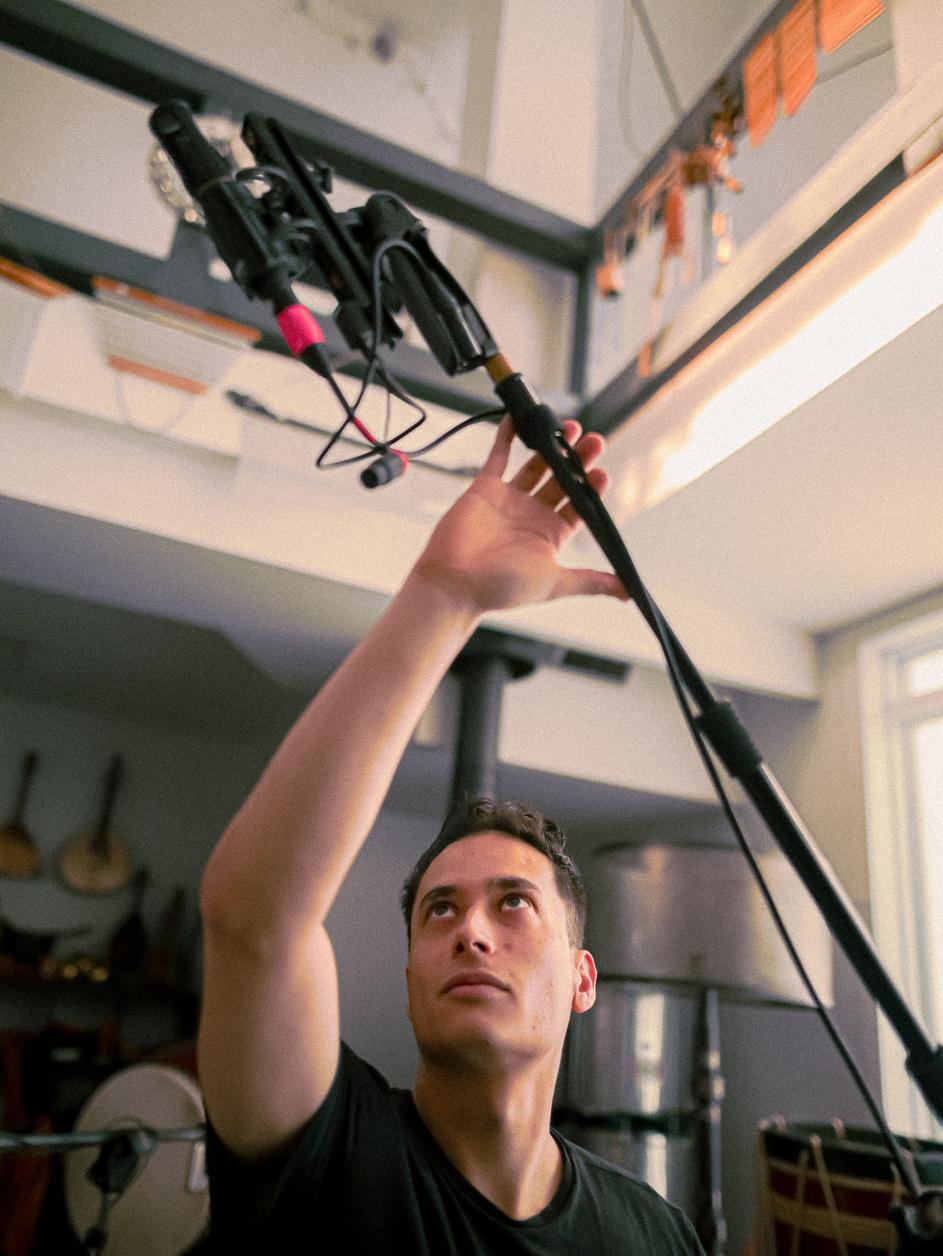
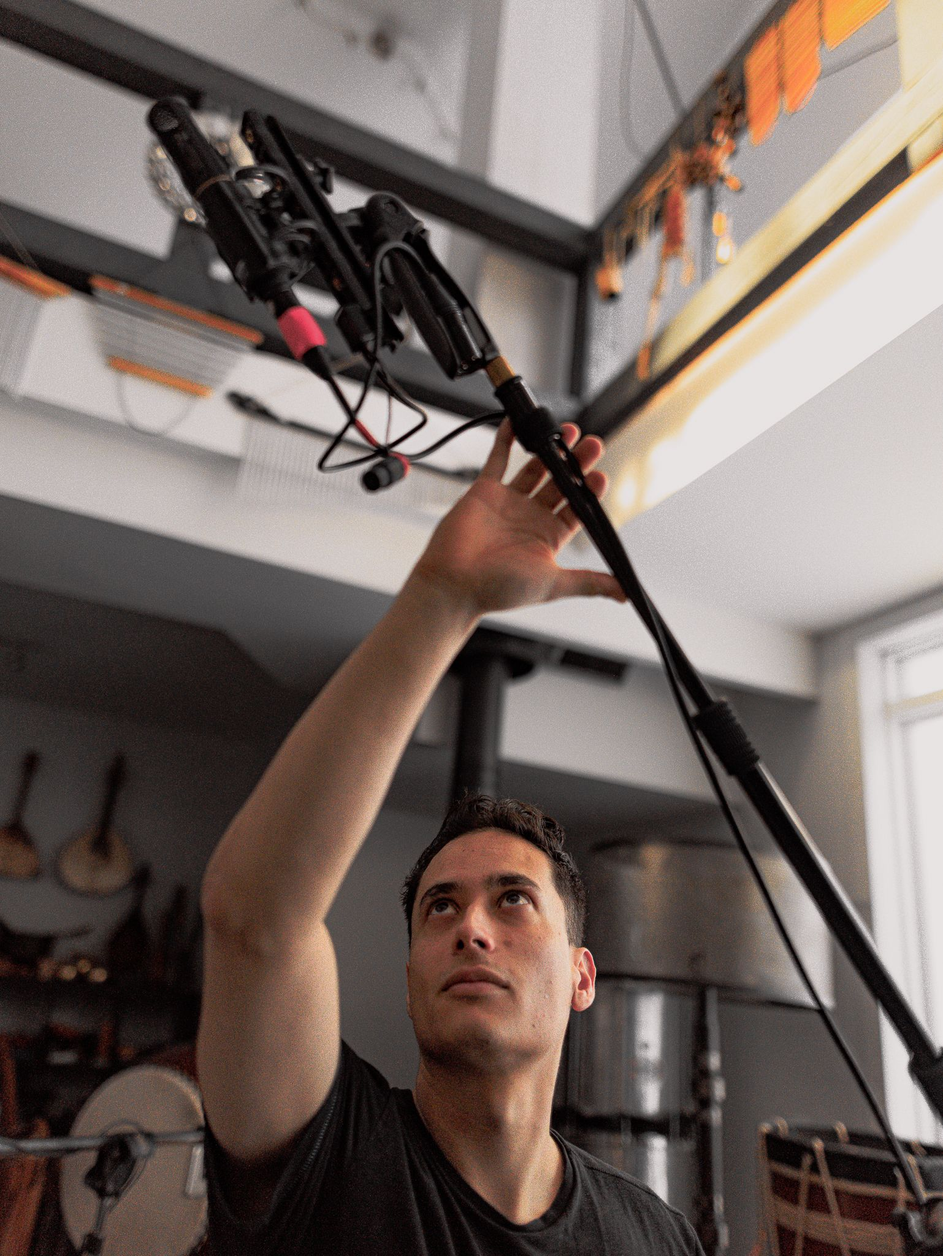
Photos de captation : nouvelle photo au micro dans la série Sessions, nouvelle retouche de la photo de la perche
Claude-Session: https://claude.ai/code/session_0185uMShaB3jqt1Pb4mZ8TWq

diff --git a/index.html b/index.html
@@ -225,7 +225,7 @@
         <div class="session">
           <div class="session__grid">
             <figure class="ph" data-file="images/sessions-01.jpg"><img src="images/sessions-01.jpg" alt="Session de percussions" loading="lazy" onerror="this.remove()"></figure>
-            <figure class="ph" data-file="images/sessions-02.jpg"><img src="images/sessions-02.jpg" alt="Session d'enregistrement" loading="lazy" onerror="this.remove()"></figure>
+            <figure class="ph" data-file="images/sessions-02.jpg"><img src="images/sessions-02.jpg" alt="Villagomez ajuste un micro à condensateur sur une perche, depuis une mezzanine qui surplombe une salle remplie d'instruments" loading="lazy" onerror="this.remove()"></figure>
             <figure class="ph" data-file="images/sessions-03.jpg"><img src="images/sessions-03.jpg" alt="Session d'enregistrement" loading="lazy" onerror="this.remove()"></figure>
           </div>
           <div class="session__row">

diff --git a/styles.css b/styles.css
@@ -434,6 +434,7 @@ h1, h2, h3 { margin: 0; font-weight: 400; }
 }
 .session__grid .ph:first-child img { object-position: center 12%; }
 .session__grid .ph[data-file="images/sessions-01.jpg"] img { object-position: center 62%; }
+.session__grid .ph[data-file="images/sessions-02.jpg"] img { object-position: 60% 22%; }
 
 .session__row {
   display: grid;
